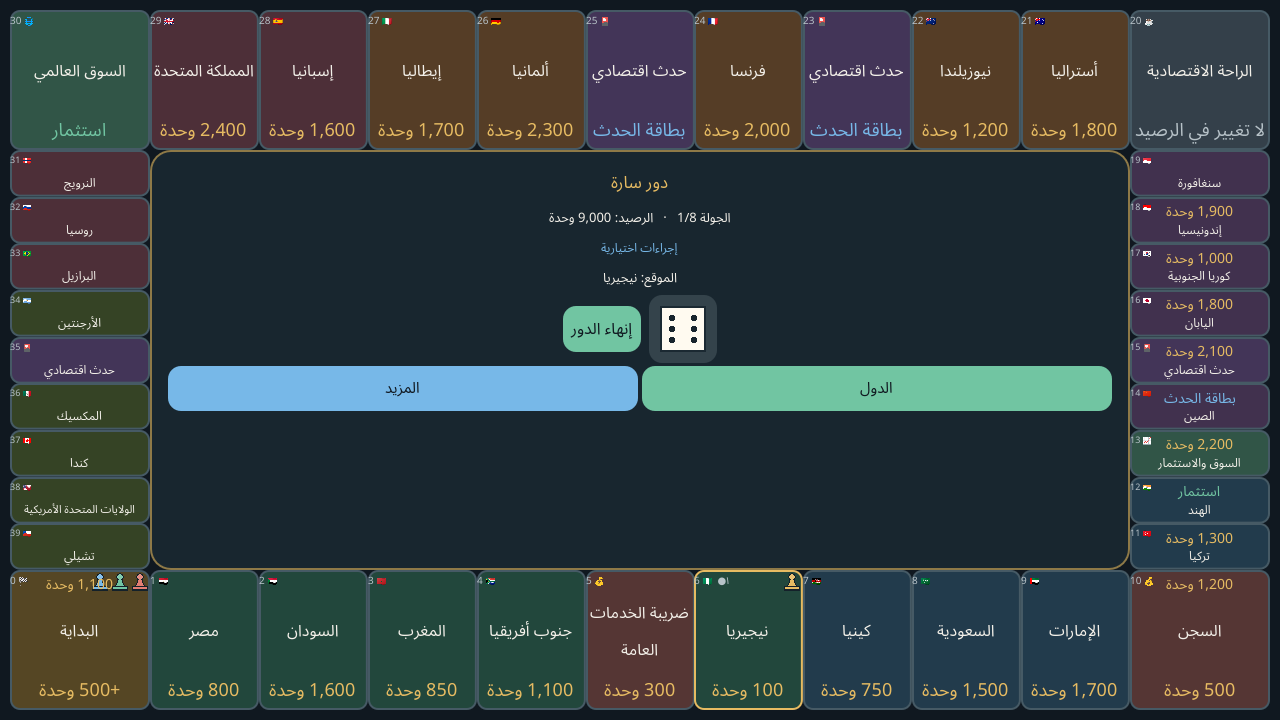
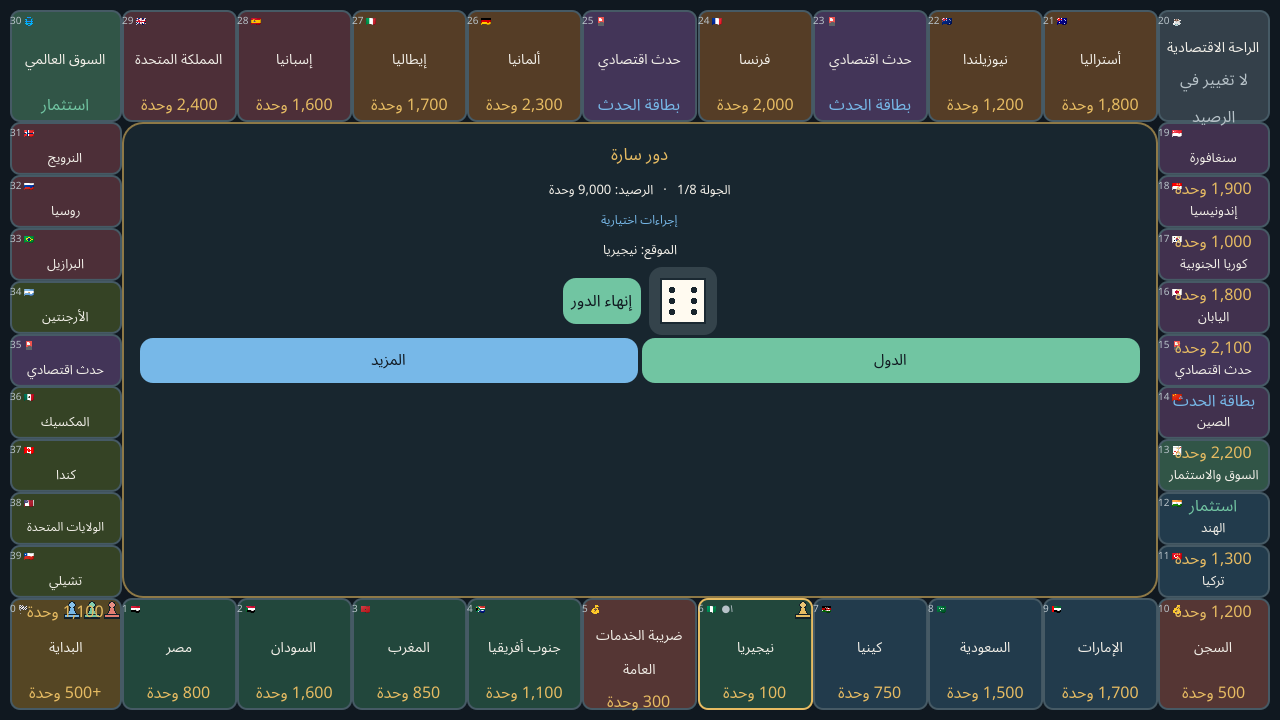
إصلاح مراجعة بنك الحظ وتحسين وضوح اللوحة

Changed region(s): [[0.0, 0.0, 1.0, 1.0]]

diff --git a/plan.md b/plan.md
@@ -27,3 +27,7 @@
 - لم يتصل هاتف أو محاكي؛ لم يُختبر التثبيت واللمس فعليًا. مواصفات Infinix SMART 7 HD تشير إلى توافق مرجح، وليس تأكيدًا بتجربة الجهاز.
 - حدود 8/16/24 جولة مختبرة كنهاية مباراة، لكن تحويلها إلى مدد دقيقة غير مقاس. لا توجد اختيارات تفاعلية ضمن البطاقات الحالية.
 - المصدر القابل للتحرير مشروع Godot المرفق؛ لم يُنشر مشروع WebDev أو إعداد checkpoint.
+
+## مراجعة المستودع بعد الإصدار
+
+أظهر فحص `origin/main` أن تعديلات الطلب الأساسية كانت موجودة في الإصدار 1.0.6: السجن في الخانة 10 بكفالة 500، الراحة في الخانة 20 بلا أثر مالي، نرد سداسي مرئي، بيدق بشري وروبوت كمبيوتر، بداية أسفل اليسار، ترقيم بلا أصفار بادئة، وأسماء كاملة مع إبراز المبالغ. التصحيح الإضافي في هذه المراجعة أصلح استدعاء `BankGame.new()` من داخل السكربت نفسه، وخفّض مساحة مربعات الزوايا قليلًا لزيادة ارتفاع الخانات الجانبية ورفع وضوح خط الأسماء والمبالغ فيها. بعد الإصلاح اجتازت اختبارات النموذج 1302/1302 واختبارات الواجهة في اللغات الأربع.

diff --git a/TODO.md b/TODO.md
@@ -39,3 +39,5 @@
 - [x] توسيع الاختبارات وتشغيلها وإصلاح ما يظهر. (1302/1302 اجتازت، وفحوص واجهة القوائم الجديدة والنرد اجتازت في أربع لغات.)
 - [x] تصدير `build/luckbank-universal-debug.apk` والتحقق من ZIP والتوقيع والـManifest. (إصدار 1.0.6، versionCode 7، ARM64 وARMv7؛ لا يوجد جهاز Android متصل للاختبار.)
 - [x] إصدار 1.0.6: السجن (500) في الخانة 10 والراحة المحايدة في الخانة 20، نرد سداسي مرئي، بيدق بشري وروبوت للكمبيوتر، وبداية أسفل اليسار؛ وسط مبسط وتفاصيل الخانات بالنقر.
+- [x] فحص مستودع الإصدار 1.0.6 بعد نفاد الرصيد: التعديلات المطلوبة في ترتيب السجن/الراحة، النرد، القطع، البداية، الترقيم، الأسماء والمبالغ كانت موجودة فعلًا، لكن وُجد خطأ تجميع في ترحيل الحفظ الذاتي لم تكن الاختبارات تكشفه.
+- [x] إصلاح ترحيل الحفظ ليُنشئ النموذج من السكربت نفسه، وتوسيع الخانات الجانبية قليلًا ورفع خط الأسماء والمبالغ؛ اجتاز اختبار الواجهة هذه الشروط الجديدة.
